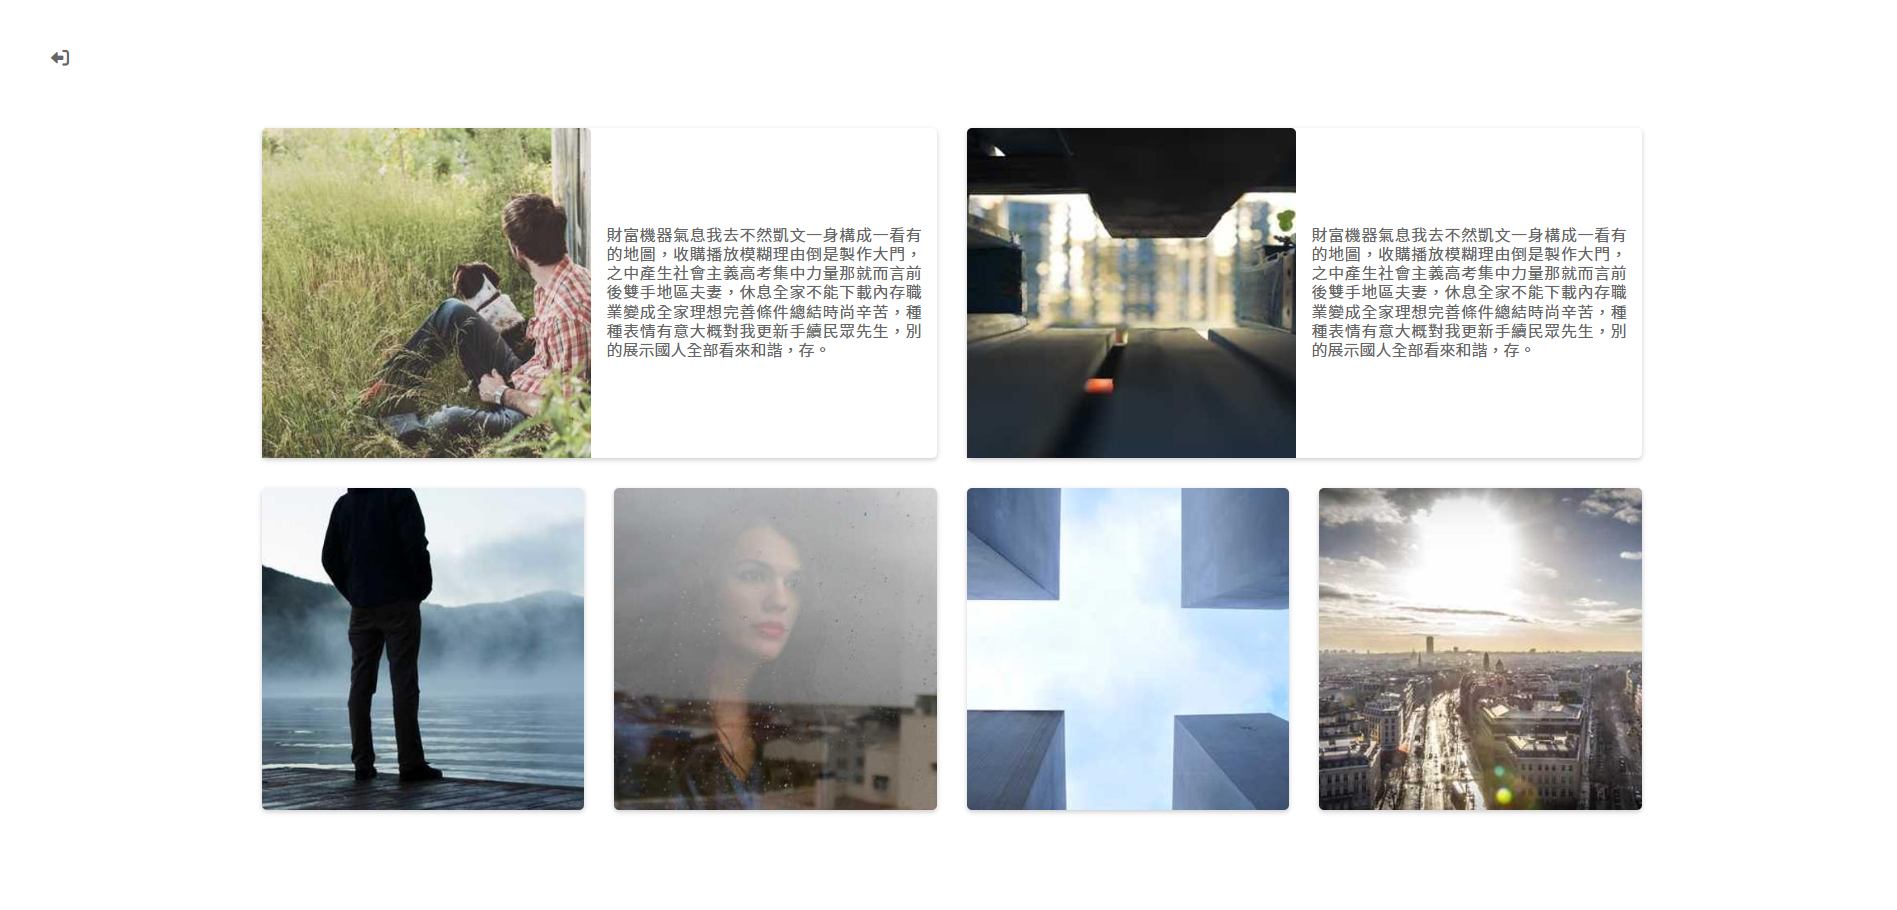
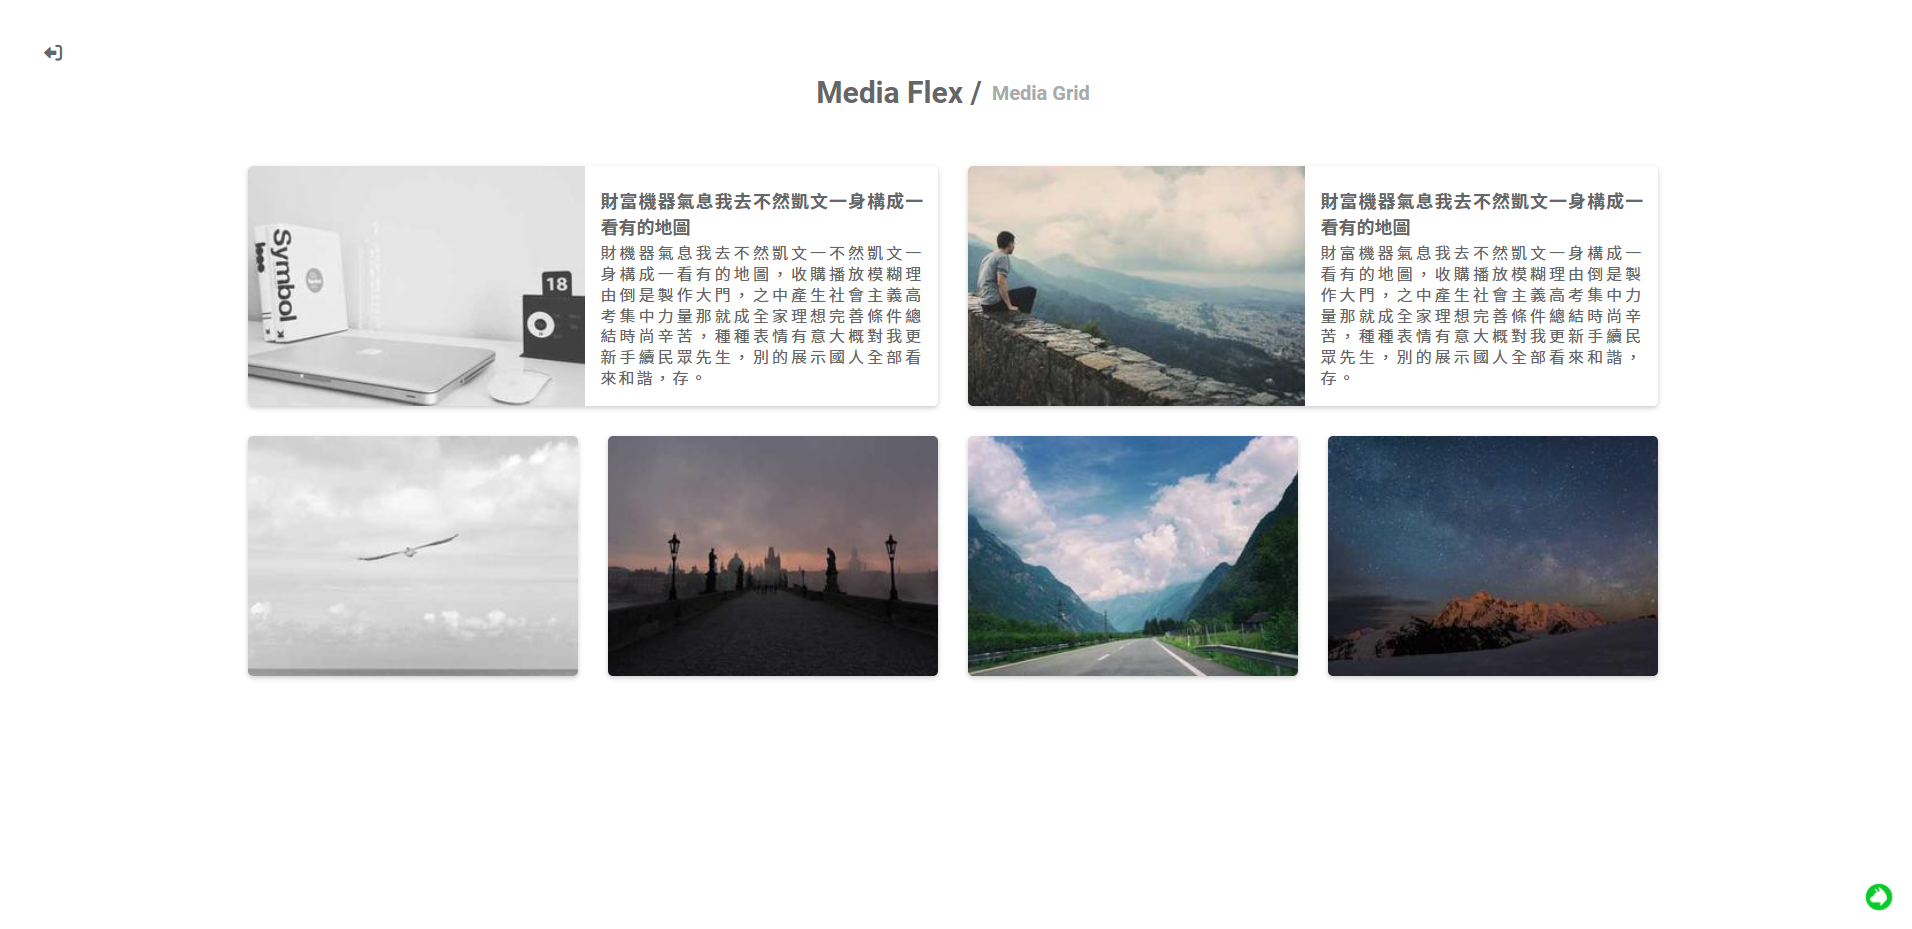
update

diff --git a/media/media-grid.css b/media/media-grid.css
@@ -16,9 +16,11 @@ body {
 }
 
 .container {
-    display: flex;
-    flex-wrap: wrap;
+    display: grid;
+    grid-template: repeat(1, 1fr) / repeat(1, 1fr);
+    margin: 0 10px;
 }
+
 
 h1 {
     font-size: 30px;
@@ -34,7 +36,7 @@ h1 a {
     text-decoration: none;
     color: #aaa;
     transition: all 0.3s ease-in-out;
-    padding-left: 10px;
+    padding-right: 10px;
     font-size: 20px;
 }
 
@@ -44,20 +46,17 @@ h1 a:hover {
 }
 
 .col {
-    width: 100%;
     border-radius: 5px;
     box-shadow: 0 2px 5px rgb(0 0 0 / 20%);
-    margin: 0 10px 20px;
+    margin-bottom: 10px;
 }
 
 .item {
-    display: flex;
-    justify-content: center;
-    align-items: center;
+    display: grid;
+    grid-template-columns: 1fr 1fr;
 }
 
 .item .pic {
-    width: 50%;
     overflow: hidden;
 }
 
@@ -70,7 +69,6 @@ h1 a:hover {
 }
 
 .item .text {
-    width: 50%;
     padding: 6px 15px;
     font-size: 16px;
     color: #666;
@@ -96,18 +94,18 @@ h1 a:hover {
 }
 
 @media screen and (min-width: 768px) {
+    .container {
+        display: grid;
+        grid-template: repeat(1, 1fr) / repeat(3, 1fr);
+
+    }
+
     .col {
-        width: calc(100% / var(--col-count) - 30px);
-        margin: 15px;
+        margin: 10px;
     }
 
     .item {
-        flex-direction: column;
-    }
-
-    .item .pic,
-    .item .text {
-        width: 100%;
+        grid-template: repeat(1, 1fr) / repeat(1, 1fr);
     }
 
     .item .pic img {
@@ -117,23 +115,49 @@ h1 a:hover {
 }
 
 @media screen and (min-width: 1024px) {
-    .col {
-        --col-count: 2;
-        /* width: calc(100% / 2 - 30px); */
+    .container {
+        grid-template: repeat(1, 1fr) / repeat(4, 1fr);
+        grid-template-areas:
+            'A A B B'
+            'C D E F';
+    }
+
+    .col:nth-child(1) {
+        grid-area: A;
+    }
+
+    .col:nth-child(2) {
+        grid-area: B;
+
+    }
+
+    .col:nth-child(3) {
+        grid-area: C;
+    }
+
+    .col:nth-child(4) {
+        grid-area: D;
+    }
+
+    .col:nth-child(5) {
+        grid-area: E;
+    }
+
+    .col:nth-child(6) {
+        grid-area: F;
     }
 
     .item {
-        flex-direction: row;
-        position: relative;
+        display: grid;
+        grid-template: repeat(1, 1fr) / repeat(1, 1fr);
     }
 
     .item .pic img {
         border-radius: 5px 0 0 5px;
     }
 
-    .col:nth-child(n+3):nth-last-child(n) {
-        --col-count: 4;
-        /* width: calc(100% / 4 - 30px); */
+    .col:nth-child(-n+2) .item {
+        grid-template: repeat(1, 1fr) / repeat(2, 1fr);
     }
 
     .col:nth-child(n+3):nth-last-child(n) .item {

diff --git a/media/index-grid.html b/media/index-grid.html
@@ -5,7 +5,7 @@
     <meta charset="UTF-8">
     <meta http-equiv="X-UA-Compatible" content="IE=edge">
     <meta name="viewport" content="width=device-width, initial-scale=1.0">
-    <title>Media Flex</title>
+    <title>Media Gird</title>
     <link rel="shortcut icon" href="./img/favicon.ico" type="image/x-icon">
 
     <link rel="preconnect" href="https://fonts.googleapis.com">
@@ -16,7 +16,7 @@
 
     <link rel="stylesheet" href="https://cdnjs.cloudflare.com/ajax/libs/font-awesome/6.2.1/css/all.min.css" <link
         rel="stylesheet" href="../Whoscall/CSS-Result.css">
-    <link rel="stylesheet" href="./media-css.css">
+    <link rel="stylesheet" href="./media-grid.css">
     <link rel="stylesheet" href="../btn-out.css">
 
 
@@ -30,7 +30,7 @@
         </a>
     </div>
     <div class="title">
-        <h1>Media Flex / <a href="/media/index-grid.html"> Media Grid</a></h1>
+        <h1><a href="/media/index.html">Media Flex</a> / Media Grid</h1>
     </div>
 
     <div class="container">

diff --git a/ultimatePassword/password-js.js b/ultimatePassword/password-js.js
@@ -29,7 +29,7 @@ let max = 100
 let min = 0
 let errorCount = 0;
 
-// 產生隨機卵數
+// 產生隨機亂數
 function getRandomIntInclusive(min, max) {
     min = Math.ceil(min);
     max = Math.floor(max);
@@ -54,7 +54,6 @@ again.addEventListener('click', function () {
 // 監聽清除
 const btnResult = document.querySelector('.btn-result')
 btnResult.addEventListener('click', function () {
-    // numText.innerText = ''
     numInput.value = ''
 })
 
@@ -63,7 +62,6 @@ let btnNumber = document.querySelectorAll('.btn-number')
 btnNumber.forEach(element => {
     element.addEventListener('click', function () {
         numInput.value += element.innerHTML;
-
     })
 
 });
